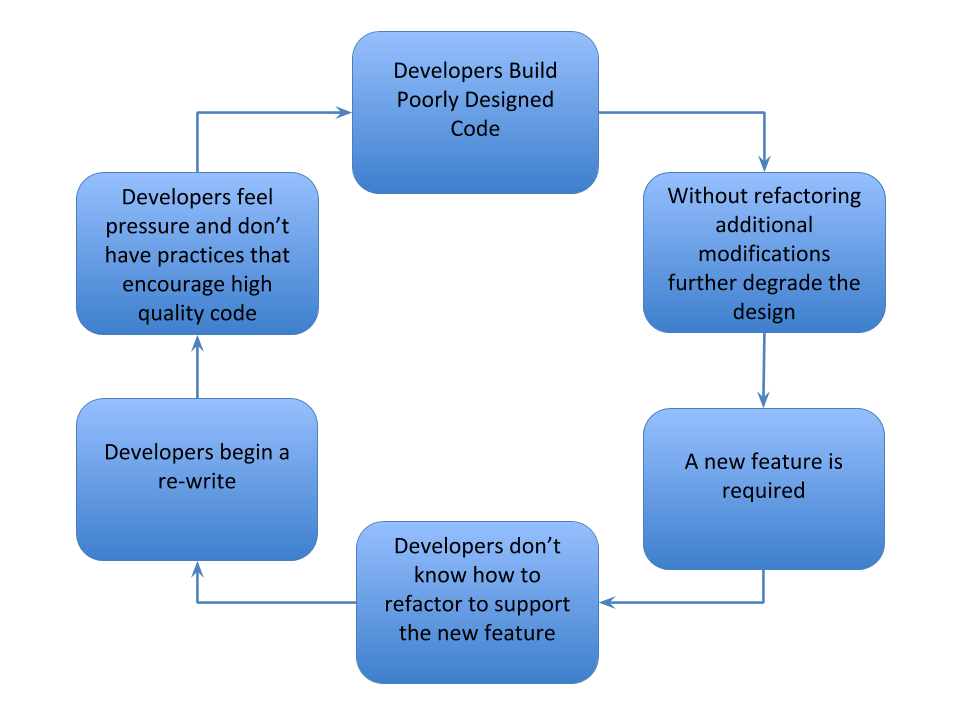
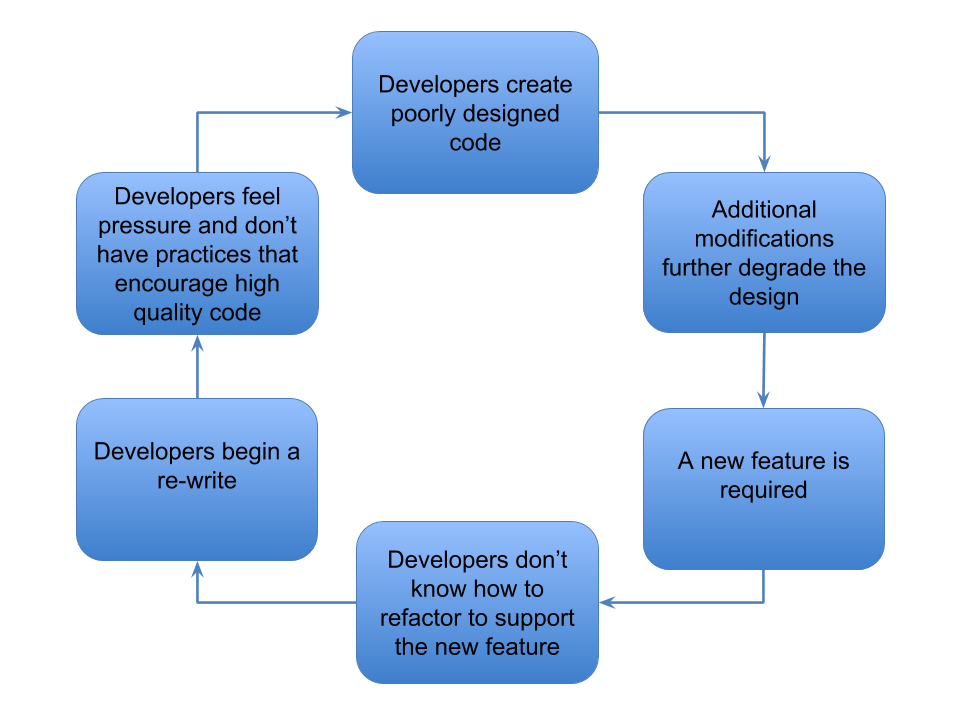
Updates to Code Rewrite Blog Post - Renamed post - Lots of edits to content

diff --git a/_drafts/the-vicious-circle-of-rewriting-software.md b/_drafts/the-vicious-circle-of-rewriting-software.md
@@ -1,0 +1,55 @@
+---
+layout: post
+title: The Vicious Circle of Rewriting Software
+comments: true
+category: software-craftsmanship
+tags: [code-quality, coaching]
+---
+
+When adding a feature, if the only recourse a team feels it has is to rewrite a significant amount of code, this is indicative of code quality issues in the organization. This should be a red flag, and it should be something that is addressed in team retrospectives until it is remedied. This rewrite cycle is something that I have seen frequently. It is something that is so commonplace in some organizations that it is not questioned. *"This is version 3 of feature x, version 5 of feature y."* But each one of those versions has been a delete and rewrite cycle. Unfortunately, this prevents the developers involved from ever mastering the skills necessary for creating and maintaining high-quality code.
+
+<!--more-->
+It surprises me how many organizations believe that a code rewrite is an appropriate and even necessary course of action when adding features. This is failure of the development organization to build the code in a way that supports extension. These rewrites are **NOT** good for the organization. They require a large development and testing effort and are fantastic opportunities for **reappearing bugs**. Those bugs that have been fixed over time but reintroduced through poor programming practices. The time and effort spent on rewrites could be used in much more productive ways by the organization.
+
+##Rewrite Scope
+One of the hard things to describe is how much rewrite is appropriate and how much is not. Rewriting individual methods and even individual small classes, when the code is covered by unit tests, can be the appropriate decision when adding features.  This __"rewrite in the small"__ can be part of your refactoring work. However, in a lot of these cases there are refactoring steps that can get you from where you currently are to your destination design safely, without unintentionally modifying the behavior. 
+
+In well designed software, where methods and classes are very small, rewriting a method or class amounts to rewriting a very small amount of system functionality. In a recent [.NET Rocks podcast](https://www.dotnetrocks.com/?show=1207) featuring [Justin Searls](https://twitter.com/searls) he talks about Mature TDD. Specifically he describes how TDD allows him to break down problems into such small classes and methods that adding features usually results in rewriting some very small classes as part of his refactoring to add new features. This helps keep the code in a maintainable state such that a larger rewrite is never necessary.
+
+However, by contrast, in poorly designed systems deleting a public method or a class could result in a significant amount of functionality being deleted and rewritten. This amounts to throwing away features and rewriting them from scratch to include some new behavior, usually without a test suite.  
+
+##The Cycle of Unmaintainable Code
+The source of these rewrites is usually two-fold.
+
+### Poorly Designed Code 
+_**The team does not write well-designed code.**_ The code is tightly coupled, not testable, and difficult to change. This is usually the result of a skill gap in the team that is not being addressed. This is common for organizations who believe code quality is subjective, or that the only measure of quality is that the QA team did not find any bugs. Often times these teams feel pressured by the larger organization to churn out features by strict deadlines. These teams also tend to not adopt practices that encourage high-quality code.
+ 
+A common practice that leads to these code problems is that developers determine a design up front. They feel pressure to complete the feature quickly. While implementing the feature they don't take the time to re-examine the design when it becomes obvious that it is not working. They push through their original design which results in very poor quality code that is now a tax on the entire organization.
+
+###Lack of Refactoring
+_**The team does not continuously refactor code.**_ So every code change further degrades the quality of the code that has already started out in a state that makes it very difficult to extend. 
+
+Without breaking the cycle developers will continue rewriting and recreating unmaintainable code until eventually the entire system is deemed in need of a rewrite. **A significant amount of time and effort is put in to these rewrites which never result in increasing the quality of the code.** It only ensures that another rewrite is coming some time in the future.
+
+<img class="responsive-img" src="/images/circle_of_software_rewrite.png"/>
+
+
+##Breaking the Cycle
+To break this cycle the first step is that rewrites cannot be accepted by the development organization. 
+
+###Working with Legacy Code
+Coaching the organization on working with poorly designed code without unit tests would be the first order of business. This is where [Michael Feather](https://twitter.com/mfeathers)'s book, _Working Effectively with Legacy Code_, can be used to teach techniques to improve poor code without unit tests while adding new functionality.
+
+###Refactoring
+The next step would be to coach the team on refactoring techniques until they feel comfortable identifying code smells and refactoring to improve the code. It is vital to get the team's commitment that when problems in the code are encountered they will be refactored. By the organization not accepting rewrites the team will be put in situations where they have to improve these two skills. 
+
+###Software Design Skills
+Finally, the team will need to be coached on not writing poorly-designed code to start with. Teaching testable design techniques, test-driven development (TDD), and identifying patterns and their appropriate use can all help improve the team's design skills. Furthermore, ensuring that code reviews are happening can also help arrive at quality designs and be a mechanism for coaching developers.
+
+####Code Reviews
+Creating good abstractions is hard. The joke that _"the hardest part about software development is naming things."_ is true. Giving something a good name is part of creating the appropriate abstraction in the code. Developers writing some new piece of functionality are authors; they've presumably had their head in the problem for a while. Like every great writer needs an editor, great developers need editors too. In organizations with quality problems there are certainly problems with their code reviews, if they are happening at all.
+
+For teams to advance their software design skills, code reviews have to be happening at every level of the organization. There can't be any rubber stamps based on seniority, title, etc. Developers who haven't adopted code reviews as a common practice tend to view them as negative. Comments on code reviews or rejected pull requests can be seen as a negative, and developers can take offense to this. It is important to identify this early and work with the team to make it known that code review comments and/or failed pull requests are the signs of a healthy development organization.  
+
+##Fix it Before it's Too Late
+It is important to figure out if your organization is stuck in this vicious software rewrite circle and to do all you can to help break free of it. This prevents the organization from ever achieving its potential. It will continue to operate inefficiently, releasing bug-ridden and brittle software into production. Furthermore, great developers will not thrive in environments like this and will likely find work elsewhere.
